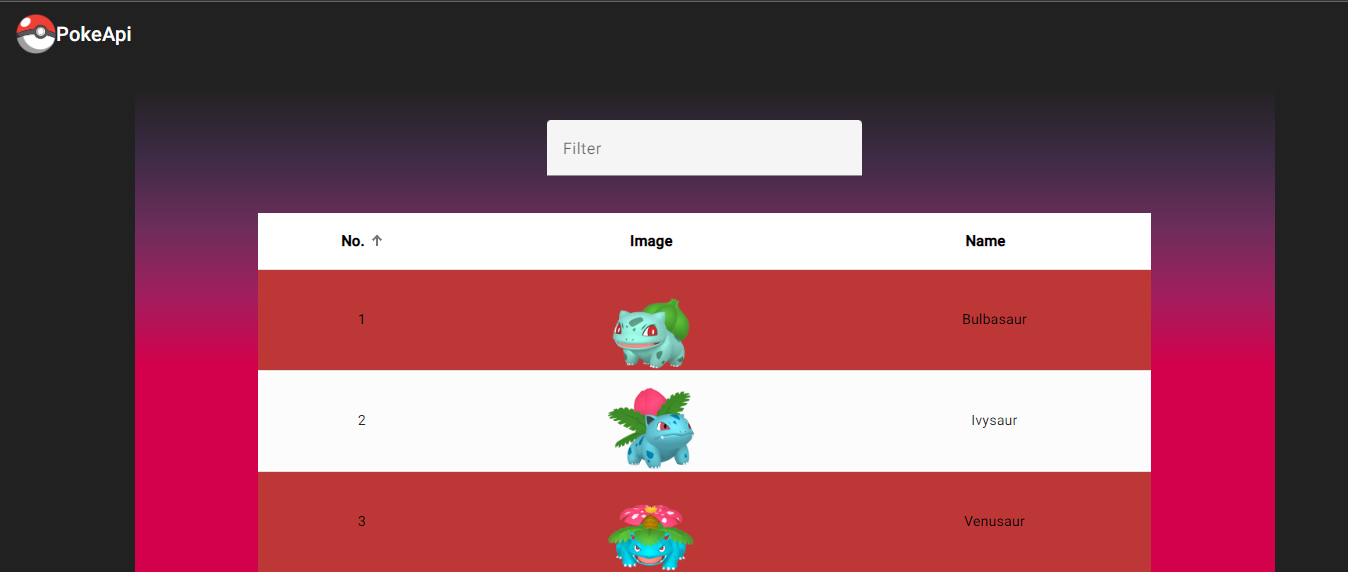
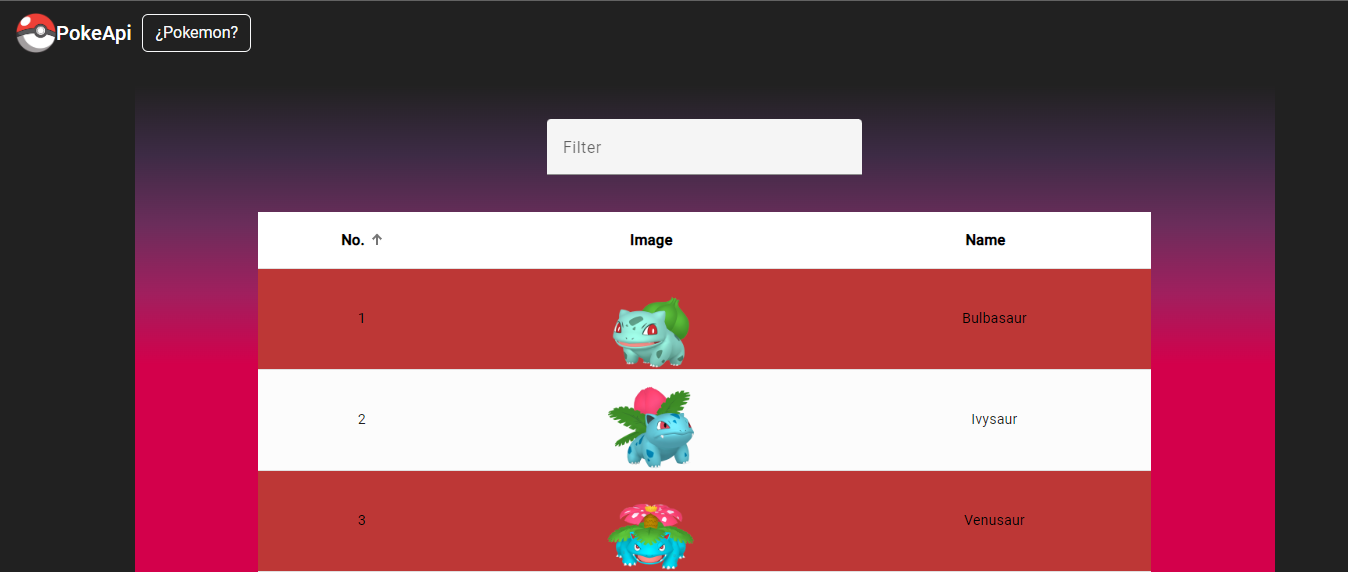
Update!

diff --git a/src/app/components/header/header.component.ts b/src/app/components/header/header.component.ts
@@ -8,6 +8,8 @@ import { Router } from '@angular/router';
 })
 export class HeaderComponent {
 
+  randomNumber: number = 0;
+
   constructor(private router: Router){
 
   }
@@ -15,4 +17,16 @@ export class HeaderComponent {
   home(){
     this.router.navigateByUrl('/home');
   }
+
+  generateRandomNumber() {
+    // Genera un número aleatorio entre 0 y 100
+    this.randomNumber = Math.round(Math.random() * 891);
+
+    // Asigna el número aleatorio al input
+    console.log(this.randomNumber);
+
+    this.router.navigateByUrl('pokeDetail/'+this.randomNumber)
+    
+  }
+
 }

diff --git a/src/app/components/header/header.component.html b/src/app/components/header/header.component.html
@@ -1,6 +1,9 @@
 <mat-toolbar>
   <mat-toolbar-row>
-     <img src="../../../assets/images/poxedex.png" alt="pokedex" width="40" height="40" (click)="home()" title="Home">
-     <span>PokeApi</span>
+    <img src="../../../assets/images/poxedex.png" alt="pokedex" width="40" height="40" (click)="home()" title="Home">
+    <span>PokeApi</span>
+    &nbsp;&nbsp;
+    <button class="btn btn-outline-light" (click)="generateRandomNumber()">¿Pokemon?</button>
   </mat-toolbar-row>
 </mat-toolbar>
+

diff --git a/README.md b/README.md
@@ -26,7 +26,7 @@ Users can:
 
 - Search for a Pokémon by name and get suggestions based on the matches.
 - Navigate through a list of over 800 Pokémon cards, divided into pages, each card showing the name, ID, and types of the Pokémon.
-- View detailed information about the Pokémon by clicking on a card, divided into 2 sections:
+- View detailed information about the Pokémon by clicking on a card, divided into sections:
   - General: Name, Image - Pokemon, Experience, Height, Type and Weight.
 
 ## 🛠 Technologies and frameworks
